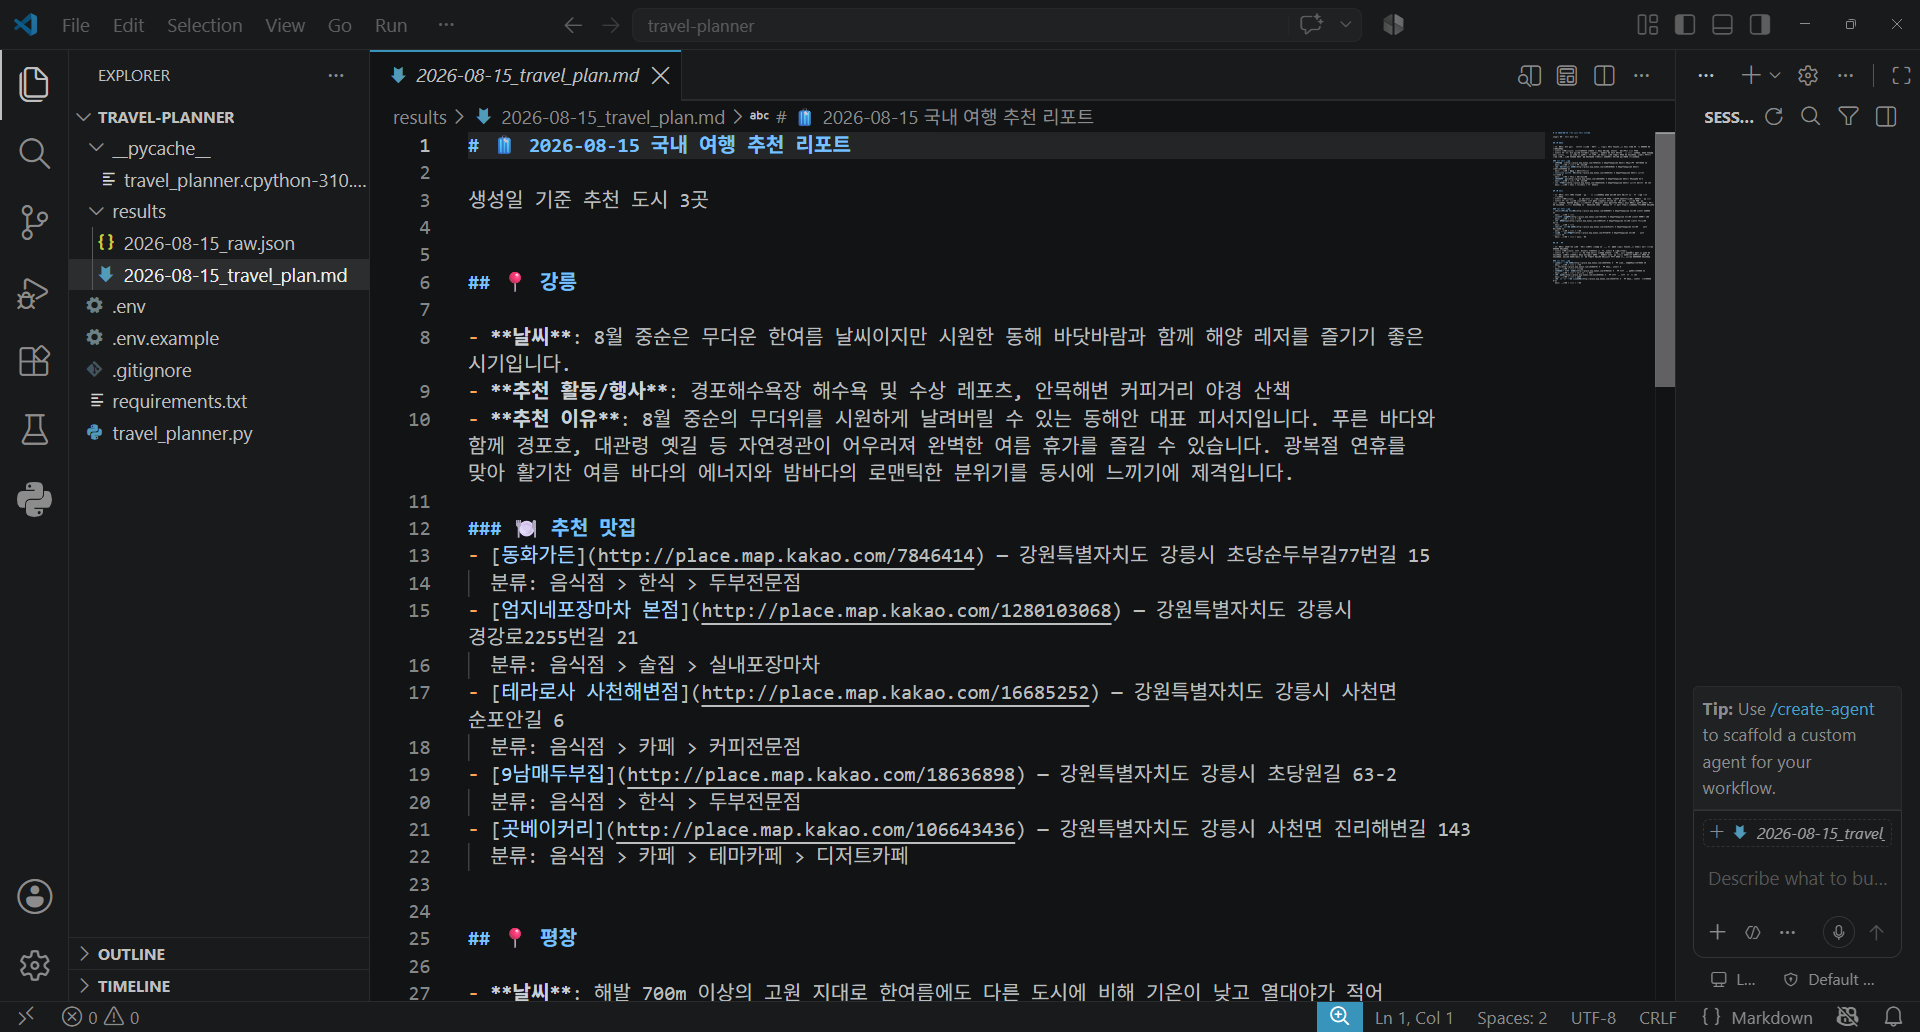
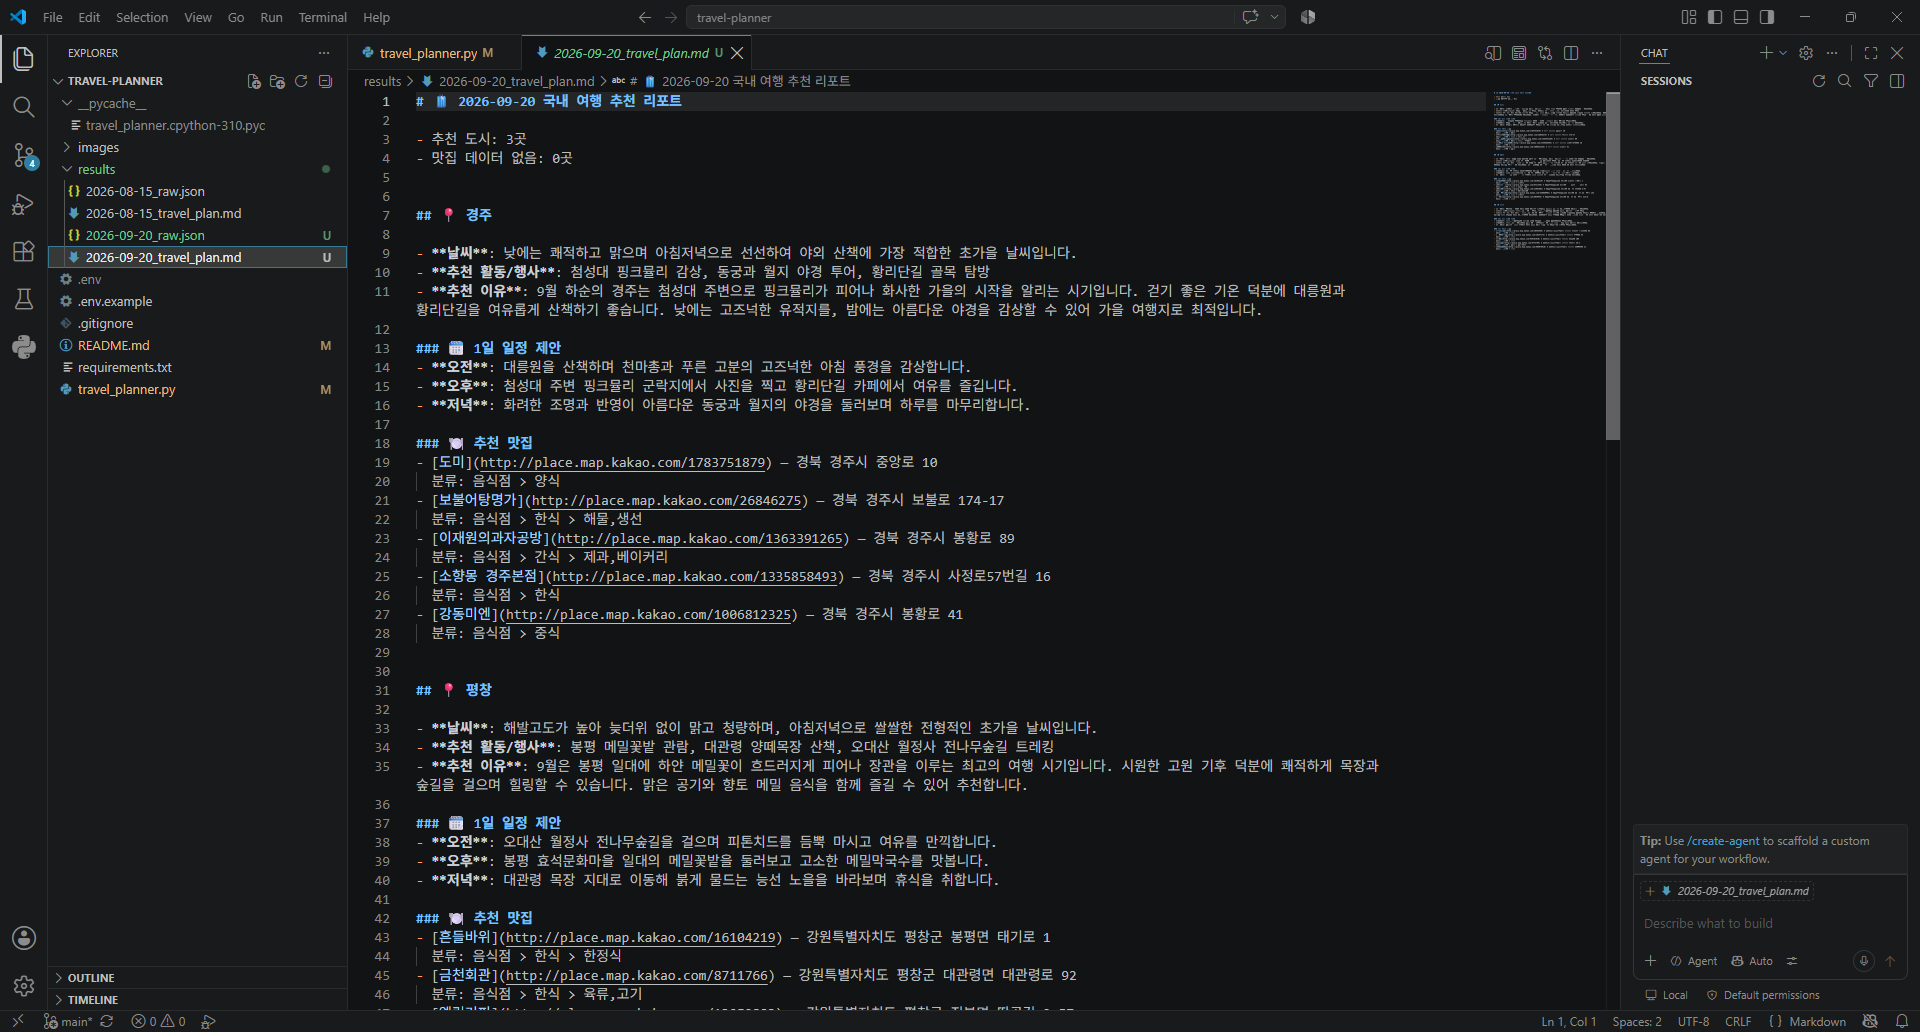
1일 일정(오전/오후/저녁) 추가 + Gemini 재시도 강화, README·결과·이미지 갱신

diff --git a/travel_planner.py b/travel_planner.py
@@ -141,7 +141,12 @@ def build_prompt(travel_date, reinforce=False):
       "city": "도시 이름 (예: 제주, 부산, 강릉)",
       "weather": "이 시기의 일반적인 날씨 요약",
       "events": ["이 시기에 어울리는 행사/축제/활동 1", "활동 2"],
-      "reason": "이 도시를 추천하는 이유 2~4문장"
+      "reason": "이 도시를 추천하는 이유 2~4문장",
+      "itinerary": {{
+        "morning": "오전 일정 제안 한 문장",
+        "afternoon": "오후 일정 제안 한 문장",
+        "evening": "저녁 일정 제안 한 문장"
+      }}
     }}
   ]
 }}
@@ -149,6 +154,7 @@ def build_prompt(travel_date, reinforce=False):
 주의:
 - city 는 Kakao 지도에서 검색 가능한 실제 한국 도시/지역명으로 쓰세요.
 - 반드시 2곳 이상 3곳 이하로 추천하세요.
+- itinerary 는 오전/오후/저녁 각각 한 문장으로 간단히 제안하세요.
 """
 
 
@@ -218,22 +224,36 @@ def pick_model(client, errors):
     return "gemini-2.0-flash"
 
 
-def get_recommendations(client, travel_date, model_name, errors):
+def is_transient_error(message):
+    """서버 혼잡·일시적 오류인지 판단한다(재시도하면 될 가능성이 큰 오류)."""
+    keys = ["503", "UNAVAILABLE", "overloaded", "high demand", "500",
+            "deadline", "timeout", "Timeout", "temporarily"]
+    return any(k in message for k in keys)
+
+
+def get_recommendations(client, travel_date, model_name, errors, max_attempts=5):
     """
     Gemini 를 호출해 추천 도시 목록을 받는다.  (HTTP 메서드: POST — 프롬프트 본문 전송)
-    JSON 파싱에 실패하면 딱 1번만 재요청하며, 이때 프롬프트를 보강한다(무한 반복 금지).
+    - 서버 혼잡(503 등) 같은 '일시적 오류'는 잠깐 쉬었다(backoff) 최대 max_attempts 번 재시도.
+    - JSON 파싱/구조 오류는 프롬프트를 보강해 다시 요청(무한 반복은 시도 횟수로 제한).
     """
-    for attempt in range(1, 3):  # 최대 2번 시도 (최초 + 재요청 1회)
-        prompt = build_prompt(travel_date, reinforce=(attempt > 1))
+    parse_fail = False  # 직전이 '파싱/구조 오류'였으면 프롬프트를 보강한다
+    for attempt in range(1, max_attempts + 1):
+        prompt = build_prompt(travel_date, reinforce=parse_fail)
         try:
             response = client.models.generate_content(
                 model=model_name,
                 contents=prompt,
             )
             raw_text = response.text
-        except Exception as e:  # 네트워크/인증/쿼터 등 모든 호출 오류
+        except Exception as e:  # 네트워크/인증/쿼터/서버혼잡 등 모든 호출 오류
             errors.append(f"[NETWORK] Gemini 호출 실패(시도 {attempt}): {e}")
-            print(f"[경고] Gemini 호출 실패 (시도 {attempt}): {e}")
+            if is_transient_error(str(e)) and attempt < max_attempts:
+                wait = 3 * attempt  # 3초, 6초, 9초 … 점점 길게 쉬었다 재시도
+                print(f"[경고] Gemini 서버가 혼잡합니다(시도 {attempt}). {wait}초 후 다시 시도합니다...")
+                time.sleep(wait)
+            else:
+                print(f"[경고] Gemini 호출 실패 (시도 {attempt}): {e}")
             continue
 
         cleaned = clean_json_text(raw_text)
@@ -244,7 +264,8 @@ def get_recommendations(client, travel_date, model_name, errors):
             errors.append(
                 f"[PARSE] Gemini JSON 파싱 실패(시도 {attempt}): {e} | 응답 원문: {snippet}"
             )
-            print(f"[경고] 응답을 JSON 으로 읽지 못했습니다 (시도 {attempt}). 재요청합니다.")
+            print(f"[경고] 응답을 JSON 으로 읽지 못했습니다 (시도 {attempt}). 프롬프트를 보강해 재요청합니다.")
+            parse_fail = True
             continue
 
         problem = check_recommendation(data)
@@ -252,8 +273,9 @@ def get_recommendations(client, travel_date, model_name, errors):
             return data["recommended_cities"]
         errors.append(f"[PARSE] Gemini 응답 구조 오류(시도 {attempt}): {problem}")
         print(f"[경고] 추천 결과 구조 오류 (시도 {attempt}): {problem}")
+        parse_fail = True
 
-    print("[오류] Gemini 추천을 받지 못했습니다. 프로그램을 종료합니다.")
+    print("[오류] Gemini 추천을 받지 못했습니다. 서버 혼잡일 수 있으니 잠시 후 다시 실행해 주세요.")
     sys.exit(1)
 
 
@@ -392,6 +414,18 @@ def build_markdown(result):
         if events:
             lines.append(f"- **추천 활동/행사**: {', '.join(events)}")
         lines.append(f"- **추천 이유**: {city.get('reason', '')}\n")
+
+        # 1일 일정 제안 (오전/오후/저녁) — itinerary 가 있을 때만 표시
+        itinerary = city.get("itinerary") or {}
+        if itinerary:
+            lines.append("### 🗓 1일 일정 제안")
+            if itinerary.get("morning"):
+                lines.append(f"- **오전**: {itinerary['morning']}")
+            if itinerary.get("afternoon"):
+                lines.append(f"- **오후**: {itinerary['afternoon']}")
+            if itinerary.get("evening"):
+                lines.append(f"- **저녁**: {itinerary['evening']}")
+            lines.append("")
 
         lines.append("### 🍽 추천 맛집")
         restaurants = city.get("restaurants") or []

diff --git a/results/2026-09-20_travel_plan.md b/results/2026-09-20_travel_plan.md
@@ -1,0 +1,76 @@
+# 🧳 2026-09-20 국내 여행 추천 리포트
+
+- 추천 도시: 3곳
+- 맛집 데이터 없음: 0곳
+
+
+## 📍 경주
+
+- **날씨**: 낮에는 쾌적하고 맑으며 아침저녁으로 선선하여 야외 산책에 가장 적합한 초가을 날씨입니다.
+- **추천 활동/행사**: 첨성대 핑크뮬리 감상, 동궁과 월지 야경 투어, 황리단길 골목 탐방
+- **추천 이유**: 9월 하순의 경주는 첨성대 주변으로 핑크뮬리가 피어나 화사한 가을의 시작을 알리는 시기입니다. 걷기 좋은 기온 덕분에 대릉원과 황리단길을 여유롭게 산책하기 좋습니다. 낮에는 고즈넉한 유적지를, 밤에는 아름다운 야경을 감상할 수 있어 가을 여행지로 최적입니다.
+
+### 🗓 1일 일정 제안
+- **오전**: 대릉원을 산책하며 천마총과 푸른 고분의 고즈넉한 아침 풍경을 감상합니다.
+- **오후**: 첨성대 주변 핑크뮬리 군락지에서 사진을 찍고 황리단길 카페에서 여유를 즐깁니다.
+- **저녁**: 화려한 조명과 반영이 아름다운 동궁과 월지의 야경을 둘러보며 하루를 마무리합니다.
+
+### 🍽 추천 맛집
+- [도미](http://place.map.kakao.com/1783751879) — 경북 경주시 중앙로 10  
+  분류: 음식점 > 양식
+- [보불어탕명가](http://place.map.kakao.com/26846275) — 경북 경주시 보불로 174-17  
+  분류: 음식점 > 한식 > 해물,생선
+- [이재원의과자공방](http://place.map.kakao.com/1363391265) — 경북 경주시 봉황로 89  
+  분류: 음식점 > 간식 > 제과,베이커리
+- [소향몽 경주본점](http://place.map.kakao.com/1335858493) — 경북 경주시 사정로57번길 16  
+  분류: 음식점 > 한식
+- [강동미엔](http://place.map.kakao.com/1006812325) — 경북 경주시 봉황로 41  
+  분류: 음식점 > 중식
+
+
+## 📍 평창
+
+- **날씨**: 해발고도가 높아 늦더위 없이 맑고 청량하며, 아침저녁으로 쌀쌀한 전형적인 초가을 날씨입니다.
+- **추천 활동/행사**: 봉평 메밀꽃밭 관람, 대관령 양떼목장 산책, 오대산 월정사 전나무숲길 트레킹
+- **추천 이유**: 9월은 봉평 일대에 하얀 메밀꽃이 흐드러지게 피어나 장관을 이루는 최고의 여행 시기입니다. 시원한 고원 기후 덕분에 쾌적하게 목장과 숲길을 걸으며 힐링할 수 있습니다. 맑은 공기와 향토 메밀 음식을 함께 즐길 수 있어 추천합니다.
+
+### 🗓 1일 일정 제안
+- **오전**: 오대산 월정사 전나무숲길을 걸으며 피톤치드를 듬뿍 마시고 여유를 만끽합니다.
+- **오후**: 봉평 효석문화마을 일대의 메밀꽃밭을 둘러보고 고소한 메밀막국수를 맛봅니다.
+- **저녁**: 대관령 목장 지대로 이동해 붉게 물드는 능선 노을을 바라보며 휴식을 취합니다.
+
+### 🍽 추천 맛집
+- [흔들바위](http://place.map.kakao.com/16104219) — 강원특별자치도 평창군 봉평면 태기로 1  
+  분류: 음식점 > 한식 > 한정식
+- [금천회관](http://place.map.kakao.com/8711766) — 강원특별자치도 평창군 대관령면 대관령로 92  
+  분류: 음식점 > 한식 > 육류,고기
+- [엘림커피](http://place.map.kakao.com/13052883) — 강원특별자치도 평창군 진부면 땅골길 2-57  
+  분류: 음식점 > 카페 > 커피전문점
+- [오대산민속식당](http://place.map.kakao.com/430860902) — 강원특별자치도 평창군 진부면 오대산로 152  
+  분류: 음식점 > 한식 > 한정식
+- [유정식당](http://place.map.kakao.com/8039945) — 강원특별자치도 평창군 진부면 오대산로 112-8  
+  분류: 음식점 > 한식
+
+
+## 📍 순천
+
+- **날씨**: 청명하고 푸른 하늘 아래 기온이 온화하여 갯벌과 습지를 둘러보기에 완벽한 날씨입니다.
+- **추천 활동/행사**: 순천만습지 갈대 탐방, 순천만국가정원 가을꽃 축제, 와온해변 일몰 감상
+- **추천 이유**: 9월 하순은 순천만습지의 갈대밭이 은빛으로 서서히 물들기 시작하며 가을의 정취를 풍기는 때입니다. 순천만국가정원의 다채로운 가을꽃 전시와 테마 정원을 함께 둘러보기에 좋습니다. 아름다운 갯벌 낙조와 풍성한 남도 음식을 경험할 수 있어 매력적인 도시입니다.
+
+### 🗓 1일 일정 제안
+- **오전**: 순천만국가정원의 테마별 세계 정원을 관람하며 가을꽃들을 감상합니다.
+- **오후**: 순천만습지 데크길을 따라 걷고 용산전망대에 올라 드넓은 S자 갯벌 수로를 조망합니다.
+- **저녁**: 와온해변으로 이동해 남해 갯벌 위로 펼쳐지는 환상적인 일몰을 감상합니다.
+
+### 🍽 추천 맛집
+- [송치마을](http://place.map.kakao.com/10552956) — 전남광주통합특별시 순천시 월등면 송치안길 88  
+  분류: 음식점 > 한식
+- [대숲골농원](http://place.map.kakao.com/10247172) — 전남광주통합특별시 순천시 학동길 54  
+  분류: 음식점 > 한식
+- [주복](http://place.map.kakao.com/859191620) — 전남광주통합특별시 순천시 금곡길 106  
+  분류: 음식점 > 한식
+- [광춘원](http://place.map.kakao.com/8773799) — 전남광주통합특별시 순천시 장평로 28-1  
+  분류: 음식점 > 중식 > 중국요리
+- [남녘들밥상](http://place.map.kakao.com/908076910) — 전남광주통합특별시 순천시 하풍동길 21  
+  분류: 음식점 > 한식
